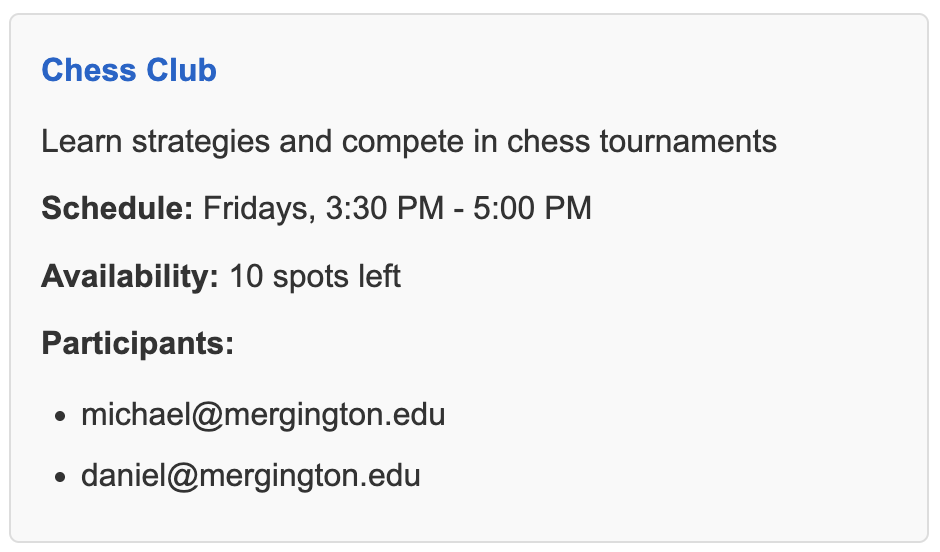
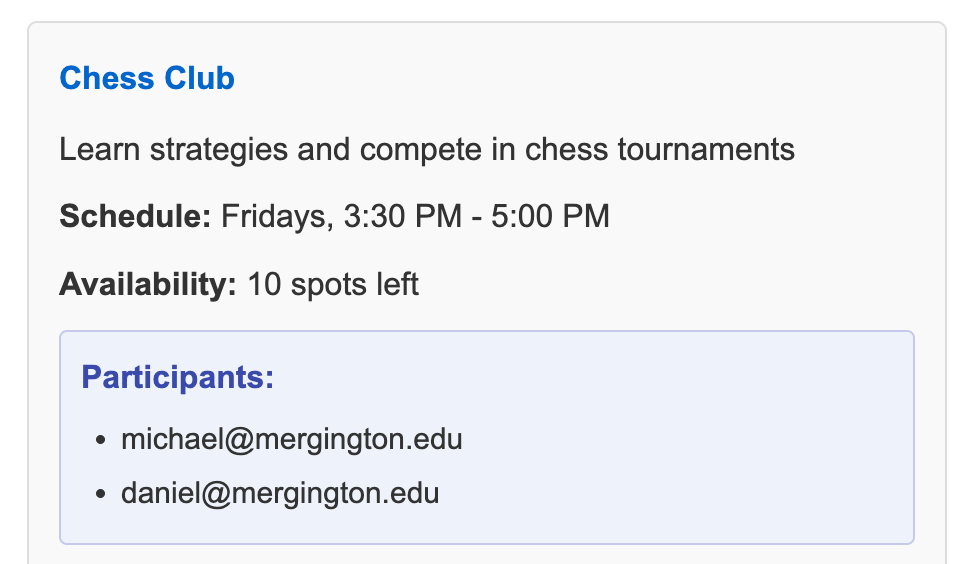
feat: add activity feature and update instructions for Copilot Agent Mode

Changed region(s): [[0.0, 0.0616, 0.9872, 0.9855], [0.0309, 0.0, 0.9872, 0.0308], [0.0617, 0.8315, 0.4628, 0.9239]]

diff --git a/.github/steps/3-step.md b/.github/steps/3-step.md
@@ -30,6 +30,65 @@ Agent mode uses tools to accomplish specialized tasks while processing a user re
 
 Now, let's give **Agent Mode** a try! 👩🚀
 
+### :keyboard: Activity: Use Copilot to add a new feature! :rocket:
+
+Our website lists activities, but it's keeping the guest list secret 🤫 
+
+Let's use Copilot to change the website to display signed up students under each activity!
+
+1. At the bottom of Copilot Chat window, use the dropdown to switch to **Edit** mode.
+
+   <img width="350" alt="image" src="../images/edit-mode-dropdown.png" />
+
+1. Open the files related to our webpage then drag each editor window (or file) to the chat panel, informing Copilot to use them as context.
+
+   - `src/static/app.js`
+   - `src/static/index.html`
+   - `src/static/styles.css`
+
+   > 🪧 **Note:** Adding files as context is optional. If you skip this, Copilot Agent Mode can still use tools like `#codebase` to search for relevant files from your prompt. Adding specific files helps point Copilot in the right direction, which is especially useful in larger codebases.
+
+   <img width="400" alt="image showing files added to context" src="../images/files-added-to-context.png" />
+
+   > 💡 **Tip:** You can also use the **Add Context...** button to provide other sources of context items, like a GitHub issue or the results of a terminal window.
+
+1. Ask Copilot to update our project to display the current participants of activities. Wait a moment for the edit suggestions to arrive and be applied.
+
+   > ![Static Badge](https://img.shields.io/badge/-Prompt-text?style=social&logo=github%20copilot)
+   >
+   > ```prompt
+   > Hey Copilot, can you please edit the activity cards to add a participants section.
+   > It will show what participants that are already signed up for that activity as a bulleted list.
+   > Remember to make it pretty!
+   > ```
+
+   After Copilot finishes work, you are in control of what changes get to stay. 
+
+   Using the **Keep** buttons shown below, you can accept/discard all changes or review and decide change by change. This can be done either from the chat panel view or while inspecting each edited file.
+
+      <img width="900" alt="buttons to keep or discard changes" src="../images/review-changes-buttons.png" />
+
+
+1. Before we simply accept the changes, please check our website again and verify everything is updated as expected. Here is an example of an updated activity card. You may need to restart the app or refresh the page.
+
+   <img width="350" alt="Activity card with participant info" src="../images/activity-card-with-participants.png" />
+
+   > 🪧 **Note:** Your activity card may look different. Copilot won't always produce the same results.
+
+   <details>
+   <summary>Need help? 🤷</summary><br/>
+   If the website is not loading, here are some things to check.
+
+   - Restart the VS Code Debugger to make sure the latest version of the website is served.
+   - If you forgot the url, or closed the window, please review step 1.
+   - Try hard refreshing the webpage or opening in a private window so it downloads a fresh copy.
+
+   </details>
+
+1. Now that we have confirmed our changes are good, use the panel to cycle through each suggested edit and press **Keep** to apply the change.
+
+   > 💡 **Tip:** You can accept the changes directly, modify them, or provide additional instruction to refine them using the chat interface.
+
 ### :keyboard: Activity: Use Agent mode to add functional "unregister" buttons
 
 Let's experiment with some more open-ended requests that will add more functionality to our web application.
